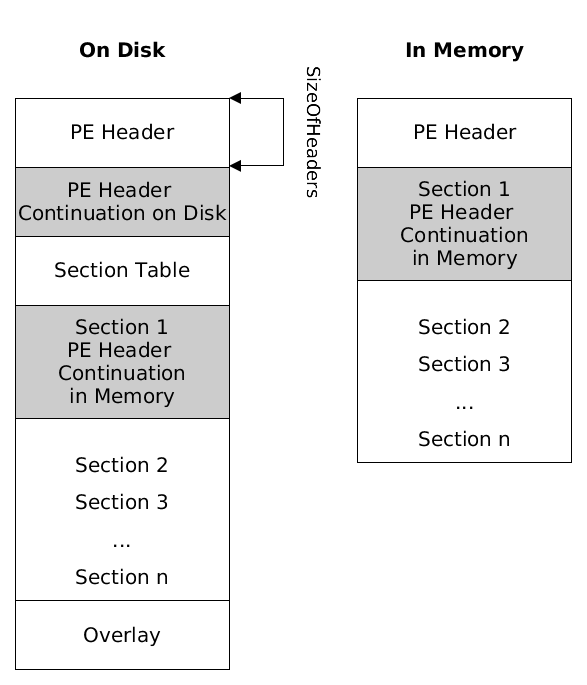
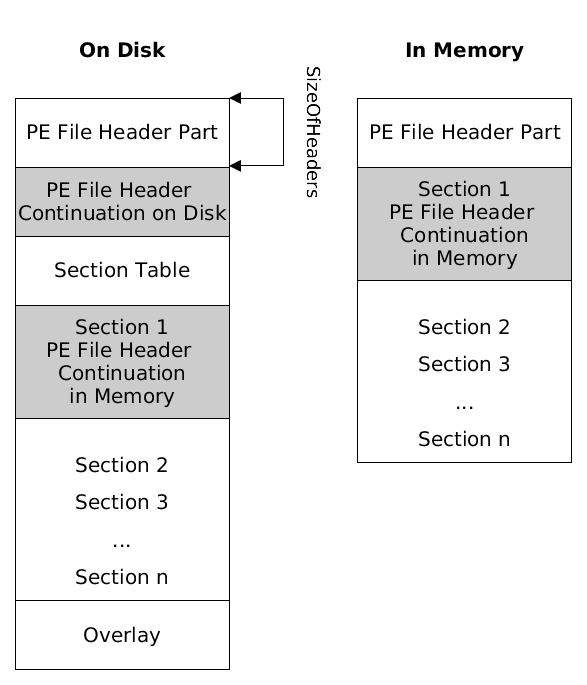
applied part of the suggestions by prof

diff --git a/arbeit/peformat.tex b/arbeit/peformat.tex
@@ -1,19 +1,28 @@
 \chapter{Portable Executable Format} \label{chap:peformat}
 
-\portex{} extracts information from the \PE{} format to assist in analysing malware. Therefore knowledge about the \PE{} format is neccessary to understand the inner workings of the library \portex{} and why the extracted information is useful for malware analysis. 
+The library \portex{} extracts information from the \PE{} format to assist in analysing malware. Therefore knowledge about the \PE{} format is neccessary to understand the implementation of \portex{} and why the extracted information is useful for malware analysis. 
 
-Microsoft introduced the \PE{} file format in 1993 with the release of Windows NT 3.1. It is the successor of the \NZ{} file format for 16-bit systems. The \PE{} format has been incrementally changed since then, and supports not only 32-bit, but also 64-bit system architectures today. The \PE{} format is described in the \PECOFF{} \cite{pespec}.
+Microsoft introduced the \PE{} file format in 1993 with the release of Windows NT 3.1. It is the successor of the \NZ{} file format for 16-bit systems. The \PE{} format has been incrementally changed since then, and supports not only 32-bit, but also 64-bit system architectures today. The \PE{} format is described in the \PECOFF{} \cite{pespec}. 
 
-The two \PE{} file types are \DLL{} and \EXE{} files. The differentiation between these file types is a semantic one. \DLL{} files are meant to export functions or data other programs can use. Therefore they usually only run within the context of other programs. They can have various file endings, including \emph{.sys}, \emph{.dll}, \emph{ocx}, \emph{.cpl} and \emph{.drv}. (\cf{} \cite{micrdll}) 
-\EXE{} files run in their own process instead of being loaded into an existing process of another program. They usually have the file ending \emph{.exe} and do not export any symbols. Both file types share the same format and hybrids are possible, \eg{}, an \EXE{} that exports symbols.
+This chapter defines frequently used terms in \autoref{sec:peconcepts}, gives an overview about the structure of a \PE{} file according to the \PECOFF{} in \autoref{sec:pestructure} and winds up with \PE{} file malformations in \autoref{sec:malformations}.
+
+\section{General Concepts}\label{sec:peconcepts}
+
+This section explains general concepts and frequent terms that are also used by the \PECOFF{} and necessary to understand the descriptions of the \PE{} format.
+
+\subsection*{PE File Types}
+
+The two \PE{} file types are \DLL{} and \EXE{} files. The differentiation between these file types is solely a semantic one. 
+
+\DLL{} files are meant to export functions or data that other programs can use. Therefore they usually only run within the context of other programs. They can have various file extensions, including \emph{.sys}, \emph{.dll}, \emph{ocx}, \emph{.cpl} and \emph{.drv} (\cf{} \cite{micrdll}). 
+
+\EXE{} files run in their own process instead of being loaded into an existing process of another program. They usually have the file extension \emph{.exe} and do not export any symbols. Both file types share the same format and hybrids are possible, \eg{}, an \EXE{} that exports symbols.
 %The system recognizes the file type by a certain flag in the \PE{} headers. (see page~\pageref{dllflag}) \todo{other file types? FON?}
 
-\section{General Concepts}
-
-This section explains some frequent terms that are also used by the \PECOFF{} and necessary to understand the descriptions of the \PE{} format.
+\subsection*{Special Terms}
 
 \begin{definition}[linker]
-\enquote{Linking is the process of collecting and combining various pieces of code and data into a single file that can be loaded (copied) into memory and executed. [...] On modern systems, linking is performed automatically by programs called \emph{linkers}.} \cite[\p{654}]{bryant11}
+\enquote{\emph{Linking} is the process of collecting and combining various pieces of code and data into a single file that can be loaded (copied) into memory and executed. [...] On modern systems, linking is performed automatically by programs called \emph{linkers}.} \cite[\p{654}]{bryant11}
 \end{definition} 
 
 \begin{definition}[loader]
@@ -21,14 +30,15 @@ A \emph{loader} is a program that loads a file into main memory.
 \end{definition} 
 
 \begin{definition}[image file]
-\emph{Image files} have been processed by a linker and are used as input for the loader of the operating system. (\cf{} \cite[\p{8}]{pespec})
+\emph{Image files} have been processed by a linker and are used as input for the loader of the operating system (\cf{} \cite[\p{8}]{pespec}).
 \end{definition} 
 
 \EXE{} and \DLL{} files, are considered as \emph{image files} by the \PECOFF{} (\cf{} \cite[\p{8}]{pespec}).
-In contrast to image files are \emph{object files} (Common Object File Format or {COFF}), which are used as input for a linker (see \cite[\p{8}]{pespec}). The Common Object File Format is not an issue in the thesis.
+
+The \PECOFF{} specifies \emph{object files} (Common Object File Format or {COFF}) alongside \emph{image files}. \emph{Object files} are used as input for a linker in contrast to \emph{image files} (see \cite[\p{8}]{pespec}). Although \emph{object files} are described in the \PECOFF{}, they are not part of the present thesis.
 
 \begin{definition}[base address]
-The \emph{base address} is the address of the first byte where the image is loaded in memory (see \enquote{ImageBase} \cite[\p{19}]{pespec}).
+The \emph{base address} is the address of the first byte where the image file is loaded in memory (see \enquote{ImageBase} \cite[\p{19}]{pespec}).
 \end{definition} 
 
 \begin{definition}[physical address]
@@ -40,13 +50,13 @@ A physical address is the offset of a certain byte in a file as it is written on
 \end{definition} 
 
 \begin{definition}[VA]
-A \emph{\VA{}} is the same as a \RVA{} with the base address added (see \cite[\p{19}]{pespec}). \useacronym*[es]{VA} are absolute in-memory addresses.
+\useacronym*[es]{VA} are absolute in-memory addresses. A \emph{\VA{}} is the same as a \RVA{} with the base address added (see \cite[\p{19}]{pespec}). 
 \end{definition} 
 
 The base address, which is given within the \PE{} file, is only a preferred loading address. If the image file can not be loaded at the preferred address into process space, another base address is applied. Hence, \useacronym[es]{RVA} are a way to specify addresses in-memory independendly from the base address. 
 
 \begin{definition}[entry point]\label{def:entrypoint} 
-The \emph{entry point} is a \RVA{} to the starting address for \EXE{} files, or to the initialization function for device drivers. (see \cite[\p{18}]{pespec}) 
+The \emph{entry point} is a \RVA{} to the starting address for \EXE{} files, or to the initialization function for device drivers (see \cite[\p{18}]{pespec}).
 \end{definition}
 
 \begin{definition}[section]
@@ -62,45 +72,43 @@ A \enquote{basic unit of code or data within a PE or COFF file} \cite[\p{19}]{pe
 \label{fig:peformat} 
 \end{figure}
 
-\autoref{fig:peformat} illustrates the structure of a \PE{} file. It consists of the PE Header followed by the Section Table and the sections. The overlay is optional data appended to the file. The different parts of the \PE{} are explained hereafter. 
+\autoref{fig:peformat} illustrates the structure of a \PE{} file. It consists of the PE File Header followed by the Section Table and the sections. The overlay is optional data appended to the file. The different parts of the \PE{} are explained hereafter. 
 
-Different resources use the term \emph{PE Header} with variable meanings, so the following definition is used in this thesis. \todo{examples}
-\begin{definition}[PE Header]
-The \emph{PE Header} \enquote{consists of a MS-DOS stub, the PE signature, the COFF file header, and an optional header.} \cite[\p{11}]{pespec}
+Different resources use the term \emph{PE File Header} with variable meanings, so the following definition is used in the present thesis. \todo{examples}
+\begin{definition}[PE File Header]
+The \emph{PE File Header} \enquote{consists of a MS-DOS stub, the PE signature, the COFF file header, and an optional header.} \cite[\p{11}]{pespec}
 \end{definition} 
 
 A \PE{} file starts with the MS-DOS Stub. This is an application, which is able to run in MS-DOS. The standard MS-DOS Stub prints the message \enquote{This program cannot be run in DOS mode}. 
 
-The operating system determines the file format by looking for specific signatures. The file format signature is usually at the very beginning of the file. The \PE{} signature is placed after the MSDOS-Stub, because the MS-DOS Stub has a file format signature (the string \enquote{MZ}) itself. The offset to the \PE{} signature is defined in the MS-DOS Stub, thus enables Windows to properly execute the \PE{} file.
-
-\autoref{tbl:peheader} shows the contents of the PE Header and the Section Table.
+The operating system determines the file format by looking for specific signatures. The file format signature is usually at the very beginning of the file. The \PE{} signature (\enquote{PE\textbackslash{}0\textbackslash{}0}) is placed after the MSDOS-Stub, because the MS-DOS Stub has a file format signature (\enquote{MZ}) itself. The offset to the \PE{} signature is defined in the MS-DOS Stub, thus enables Windows to properly execute the \PE{} file.
 
 \renewcommand{\arraystretch}{1.5}
 \begin{table}[h]
 	\begin{center}
-		\begin{tabular}{p{.30\textwidth} p{.63\textwidth}}
+		\begin{tabular}{p{.23\textwidth} p{.48\textwidth} p{.18\textwidth}}
 			\toprule
-			Header name			& Contents\\
+			Header name			& Contents & Size in Bytes PE32/PE32+ \\
 			\midrule
-			COFF File Header	&  \ia{}, type of target machine, number of sections, time date stamp (when the file was created), size of Optional Header, file characteristics\\
+			COFF File Header	&  \ia{}, type of target machine, number of sections, time date stamp (when the file was created), size of Optional Header, file characteristics & 20/20\\
 
-		  Optional Header			& Standard Fields, Windows Specific Fields, Data Directory Table\\
+		  Optional Header			& Standard Fields, Windows Specific Fields, Data Directory Table & variable\\
       \midrule
-      Standard Fields &  \ia{}, magic number, size of code, linker versions, entry point\\
-			Windows Specific Fields	& \ia{}, operating system the file can run on, file alignment, section alignment, \DLL{} characteristics, number of data directories\\
-			Data Directory Table	& each entry consists of address and size for a table or string that the system uses, \eg{}, import table, export table, resource table\\
+      Standard Fields &  \ia{}, magic number, size of code, linker versions, entry point & 28/24\\
+			Windows Specific Fields	& \ia{}, operating system the file can run on, file alignment, section alignment, \DLL{} characteristics, number of data directories & 68/88 \\
+			Data Directory Table	& each entry consists of address and size for a table or string that the system uses, \eg{}, import table, export table, resource table & variable\\
 			\midrule
-      Section Table &  each entry is a section header for the section that make up the rest of the \PE{} file; a section header describes, \ia{}, characteristics, size, name and location of the section\\
+      Section Table &  each entry is a section header; a section header describes, \ia{}, characteristics, size, name and location of a section & variable\\
 			\bottomrule
 		\end{tabular}
 	\end{center}
-	\caption[PE Header contents]{PE Header and Section Table contents}
+	\caption[PE File Header contents]{PE File Header and Section Table contents}
 	\label{tbl:peheader}
 \end{table}
 
 %The COFF File Header contains information about the type of the target machine, the number of sections, a time date stamp that indicates when the file was created, the size of the Optional Header and flags that indicate file characteristics including a flag that indicates whether the file is a \DLL{}\label{dllflag}.
 
-%The Optional Header follows right after the COFF File Header at a certain offset from the beginning of the PE Header. Despite its name the Optional Header is mandatory for image files. Only object files do not need it. The Optional Header has three parts: Standard Fields, Windows Specific Fields and a Data Directory Table.
+%The Optional Header follows right after the COFF File Header at a certain offset from the beginning of the PE File Header. Despite its name the Optional Header is mandatory for image files. Only object files do not need it. The Optional Header has three parts: Standard Fields, Windows Specific Fields and a Data Directory Table.
 
 %The Standard Fields of the Optional Header contain information necessary for loading and running the file. They determine for example, whether the image file allows a 64-bit address space (\PEplus{}) or is limited to a 32-bit address space (\PEsmall{}). They also declare \ia{} the size of initialized and uninitialized data, the size of the code, the linker versions and the entry point (see \autoref{def:entrypoint} at page~\pageref{def:entrypoint}) of the image file.
 
@@ -110,14 +118,19 @@ The operating system determines the file format by looking for specific signatur
 
 %The Section Table is placed right after the Optional Header. It consists of the section headers for the sections that make up the rest of the \PE{} file. A section header describes \ia{} characteristics, size, name and location of a section.
 
-While the PE Header and Section Table are located at a fixed file offset, the rest of the \PE{} contains data defined by pointers in the PE Header or the Section Table. The sections contain arbitrary data, only some sections have a special meaning and are explained in \emph{\nameref{sec:specialsections}} below. An \EXE{} file has at least one section containing executable code.
+\autoref{tbl:peheader} shows the contents of the PE File Header and the Section Table. The \fieldname{MagicNumber} field of the Optional Header determines  whether the image file allows a 64-bit address space (\PEplus{}) or is limited to a 32-bit address space (\PEsmall{}). Some field sizes vary depending on the \fieldname{MagicNumber} and one field has been removed in \PEplus{} files (\fieldname{BaseOfData}, see \cite[18]{pespec}).
 
-Data that was appended to the file, but is not part of the \PE{} format is called \emph{overlay}. Overlay is not mapped into memory. The overlay is used by some applications as a way to store arbitrary data without having to deal with the \PE{} format. 
+All substructures of the PE File Header are consecutively arranged, thus located at a fixed offset from the beginning of the \PE{} signature. The offset of the Section Table depends on the \fieldname{SizeOfOptionalHeaders} field, which is located in the COFF File Header. The remainder of the \PE{} file contains data at addresses, which are defined in the PE File Header or the Section Table. 
+
+The sections of the \PE{} file may contain any data, only some sections have a special meaning and are explained in \emph{\nameref{sec:specialsections}} below. %An \EXE{} file has at least one section containing executable code.
+
+Data that was appended to the file, but is not part of the \PE{} format is called \emph{overlay}. Overlay is not mapped into memory. The overlay is used by some applications as a way to store data without having to deal with the \PE{} format or to prevent the operating system from loading the data to memory. 
 
 \section{Special Sections} \label{sec:specialsections}
 
-Sections may contain arbitrary information, which is only relevant to the application using them; but some sections have a special meaning. Their format is described in the \PECOFF{} \cite[\p{74-103}]{pespec}. These sections are recognized by entries in the Data Directory Table of the Optional Header or certain flags in the Section Table. They have typical section names which are also used in the \PECOFF{} to refer to the sections. These names are not mandatory, but a convention. That is why they can not be relied on while trying to find certain sections in a \PE{}. Not only malware writers misuse the section names to obscure their purpose, but also legimate compilers and packers violate the convention (\eg{} the packer UPX \footnote{\url{http://upx.sourceforge.net/}}).
-Some of these special sections are described in the following. \todo{sections that are recognized by portex}
+Sections may contain data that is only relevant for certain applications or not relevant at all; but some sections have a special meaning. Their format is described in the \PECOFF{} \cite[\p{74-103}]{pespec}. 
+
+\PE{} parsers and the Windows loader determine special sections by entries in the Data Directory Table of the Optional Header or certain flags in the Section Table. Special sections have typical section names which are also used in the \PECOFF{} to refer to the sections. These names are not mandatory, but a convention. That is why they are not reliable for finding certain sections in a \PE{}. Not only malware writers misuse the section names to obscure their purpose, but also legitimate compilers and packers violate the convention (\eg{} the packer UPX \footnote{\url{http://upx.sourceforge.net/}}). A subset of these special sections is described in the following.\todo{sections that are recognized by portex}
 
 \subsection*{Export Section} \label{subsec:idata}
 
@@ -147,7 +160,7 @@ The Import Section contains the Import Directory Table, several Import Lookup Ta
 
 Every Import Directory Table entry points to an Import Lookup Table. Each Import Lookup Table describes the imported symbols of a single \DLL{}.
 
-The Hint-Name table entries have a hint and an ASCII name of the import. Each hint is an index to the Export Name Pointer Table (see \autoref{subsec:idata}) of the \DLL{} the image is importing from. Hints speed up the lookup of imports.
+The Hint-Name table entries have a hint and an ASCII name of the import. Each hint is an index to the Export Name Pointer Table (see \autoref{subsec:idata}) of the \DLL{} the current file is importing from. Hints speed up the lookup of imports.
 
 Null entries mark the end of the Import Directory Table and the Import Lookup Table.
 
@@ -165,25 +178,19 @@ Resources of a \PE{} can be \ia{} icons, text, windows, copyright information. T
 
 \subsection*{Debug Section and Debug Directory}
 
-Whereas most sections can be at an arbitrary location in the file, the \emph{Debug Section} (aka \emph{.debug Section}) must be placed at the very end of the image file. The reason is that the loader does not map this section into memory. Image files contain per default of the linker only a Debug Directory (as pointed to by the Data Directory Table), but not a Debug Section (see \cite[\p{78}]{pespec}). Thus the Debug Directory is either located in the Debug Section if it exists, in any other section of the \PE{} or not in any section at all.
+Whereas most sections can be at an arbitrary location in the file, the \emph{Debug Section} (aka \emph{.debug Section})--if it exists--must be placed at the very end of the image file. The reason is that the loader does not map this section into memory. Image files contain per default of the linker only a Debug Directory (as pointed to by the Data Directory Table), but not a Debug Section (see \cite[\p{78}]{pespec}). Thus the Debug Directory is either located in the Debug Section if it exists, in any other section of the \PE{} or not in any section at all.
 
 Every Debug Directory entry defines \ia{} size, location and the type (format) of a debug information block. An example is in \autoref{lst:debugsample}
 
 \lstinputlisting[caption={Example for a Debug Section entry, output by \portex{}},captionpos=t,label=lst:debugsample]{listings/debug_sample}
 
-\section{Loading Process}
+%\begin{sidewaysfigure}
+%\includegraphics[height=.39\textheight,keepaspectratio]{graphics/pe101}
+%\caption{ Loading Process of a PE by \protect{\cite{peloading}}. Note that the term PE File Header is used synonymously to COFF File Header in this graphic}
+%\label{fig:loading} 
+%\end{sidewaysfigure}
 
-test \cite{peloading} why?
-
-\begin{sidewaysfigure}
-\includegraphics[height=.39\textheight,keepaspectratio]{graphics/pe101}
-\caption{ Loading Process of a PE by \protect{\cite{peloading}}. Note that the term PE Header is used synonymously to COFF File Header in this graphic}
-\label{fig:loading} 
-\end{sidewaysfigure}
-
-\todo{add reference to figure}
-
-\section{PE Malformations}
+\section{PE Malformations} \label{sec:malformations}
 
 \begin{definition}[Malformation]
 A \emph{malformation} is data or layout of a \PE{} file that violates the \PECOFF{}.
@@ -197,7 +204,7 @@ Accidental malformations occur if the malware writer does not know the \PECOFF{}
 Sheehan et\thinspace{}al states that 68~\% of all image files have malformations. \cite[slide 7]{sheehan07}
 Because \portex{} specializes in \PE{} malware, one goal of \portex{} is to parse malformated \useacronym[s]{PE} correctly and to recognize malformations.
 
-%While other sources only use the term malformation for a file that still runs normally, this is not a premise for this thesis. If modifications to a \PE{} done by malware lead to a non-working host file, the file might still be of interest for malware analysis. \portex{} shall still be able to get as much information of the file as possible despite the damage done to the file. \todo{ausdruck? remove paragraph?}
+%While other sources only use the term malformation for a file that still runs normally, this is not a premise for the present thesis. If modifications to a \PE{} done by malware lead to a non-working host file, the file might still be of interest for malware analysis. \portex{} shall still be able to get as much information of the file as possible despite the damage done to the file. \todo{ausdruck? remove paragraph?}
 
 The following malformation examples are modifications done on purpose to deceive malware analysis tools.
 
@@ -210,23 +217,23 @@ The malformation examples described hereafter are in ascending order of their co
 
 According to the \PECOFF{} the number of sections is limited to 96 \cite[\p{12}]{pespec}. While Windows XP refuses to execute a \PE{} with more sections, Windows Vista, 7 and 8 run it nevertheless. The number of sections is defined in the COFF File Header in a 16-bit value. If the maximum number of 0xffff (65535) sections is set, tools might fail to allocate enough memory to load the file and crash subsequently. An example is IDA v5.3.
 
-\subsubsection*{PE Header in Overlay}
+\subsubsection*{PE File Header in Overlay}
 
-The PE Header usually follows after the MS-DOS Stub \todo{pespecreferences, usual vs change}
+The PE File Header usually follows after the MS-DOS Stub \todo{pespecreferences, usual vs change}
 
-As explained in \autoref{sec:pestructure} the address to the beginning of the PE signature and the following PE Header is located in file offset 0x3c within the MS-DOS Stub. This address is a 32-bit value and can be changed to point to the overlay of the file as illustrated in \autoref{fig:overlayheader}. (\cf{} \cite[slide 13]{vuksan11})
+As explained in \autoref{sec:pestructure} the address to the beginning of the PE signature and the following PE File Header is located in file offset 0x3c within the MS-DOS Stub. This address is a 32-bit value and can be changed to point to the overlay of the file as illustrated in \autoref{fig:overlayheader}. (\cf{} \cite[slide 13]{vuksan11})
 
 \begin{figure}
 \includegraphics[width=.98\textwidth, height=.60\textheight,keepaspectratio]{graphics/overlayheader}
-\caption{PE Header in Overlay \protect{(\cf{} \cite[slide 13]{vuksan11})}}
+\caption{PE File Header in Overlay \protect{(\cf{} \cite[slide 13]{vuksan11})}}
 \label{fig:overlayheader} 
 \end{figure}
 
-The overlay is never mapped into memory, so the PE Header will not be present in memory as well. The Windows loader reads it from disk and the file will be executed nevertheless. Tools that read the PE Header from memory can break because of that malformation.
+The overlay is never mapped into memory, so the PE File Header will not be present in memory as well. The Windows loader reads it from disk and the file will be executed nevertheless. Tools that read the PE File Header from memory can break because of that malformation.
 
 \subsubsection*{Section Table in Overlay}
 
-The idea from the previous malformation is extended by moving only the Section Table to the overlay. The Optional Header has a variable size. The offset from the beginning of the Optional Header and its size determine the beginning of the Section Table. The size is defined in the field \texttt{SizeOfOptionalHeaders} the COFF File Header. It is a 16-bit value, so the maximum value for the size is 65535. If the end of the file is smaller than the offset of the Optional Header plus its size, the Section Table can be moved to the very end of the file. \autoref{fig:overlaysectable} illustrates the malformation.
+The idea from the previous malformation is extended by moving only the Section Table to the overlay. The Optional Header has a variable size. The offset from the beginning of the Optional Header and its size determine the beginning of the Section Table. The size is defined in the field \fieldname{SizeOfOptionalHeaders} the COFF File Header. It is a 16-bit value, so the maximum value for the size is 65535. If the end of the file is smaller than the offset of the Optional Header plus its size, the Section Table can be moved to the very end of the file. \autoref{fig:overlaysectable} illustrates the malformation.
 
 As a result of this modification the Section Table will not be mapped to memory. A tool that parses the memory content will not be able to find the Section Table. Pericin demonstrates this in his talk at the BlackHat Conference with the debugger OllyDbg. \cite[min.\thinspace{}14:45]{vuksan11} 
 
@@ -236,28 +243,28 @@ As a result of this modification the Section Table will not be mapped to memory.
 \label{fig:overlaysectable} 
 \end{figure}
 
-\subsubsection*{Dual PE Header} \label{subsubsec:dualheader}
+\subsubsection*{Dual PE File Header} \label{subsubsec:dualheader}
 
-The \texttt{SizeOfHeaders} field in the Optional Header defines the \enquote{combined size of an MS-DOS Stub, PE header, and section headers} \cite[\p{20}]{pespec}. But it also determines the \VA{} of the first section implicitly. \cite[slide 15]{vuksan11} 
+The \fieldname{SizeOfHeaders} field in the Optional Header defines the \enquote{combined size of an MS-DOS Stub, PE File Header, and section headers} \cite[\p{20}]{pespec}. But it also determines the \VA{} of the first section implicitly. \cite[slide 15]{vuksan11} 
 
-If the \texttt{SizeOfHeaders} field is modified to a smaller value, the modification will result in loading only part of the PE Header to memory. The Windows loader still processes most of the PE Header on disk regardless of the \texttt{SizeOfHeaders} field. So setting the \VA{} of the first section in the Section Table to the same value of the \texttt{SizeOfHeaders} field will make the section part of the PE Header in memory whereas the PE Header read on disk is another one. \autoref{fig:dualpeheader} illustrates the malformation.
+If the \fieldname{SizeOfHeaders} field is modified to a smaller value, the modification will result in loading only part of the PE File Header to memory. The Windows loader still processes most of the PE File Header on disk regardless of the \fieldname{SizeOfHeaders} field. So setting the \VA{} of the first section in the Section Table to the same value of the \fieldname{SizeOfHeaders} field will make the section part of the PE File Header in memory whereas the PE File Header read on disk is another one. \autoref{fig:dualpeheader} illustrates the malformation.
 
-The Data Directory Table is parsed from memory by the operating system. That means writing a different continuation of the PE Header to the first section will result into \eg{} different imports or exports used by the operating system than the ones parsed on disk by reverse engineering tools.
+The Data Directory Table is parsed from memory by the operating system. That means writing a different continuation of the PE File Header to the first section will result into \eg{} different imports or exports used by the operating system than the ones parsed on disk by reverse engineering tools.
 
 \begin{figure}
 \includegraphics[width=.98\textwidth, height=.60\textheight,keepaspectratio]{graphics/dualpeheader}
-\caption{Dual PE Header}
+\caption{Dual PE File Header}
 \label{fig:dualpeheader} 
 \end{figure}
 
-\subsubsection*{Writeable PE Header} \label{subsubsec:writeableheader}
+\subsubsection*{Writeable PE File Header} \label{subsubsec:writeableheader}
 
-The PE Header usually has only \texttt{execute} and \texttt{read} attributes enabled. There are two possibilities to make it writeable. 
+The PE File Header usually has only \texttt{execute} and \texttt{read} attributes enabled. There are two possibilities to make it writeable. 
 
-The first possibilitiy is setting the \texttt{FileAlignment} and the \texttt{SectionAlignment} to 0x200 (512) or smaller. Both values are part of the Optional Header. 0x200 is the minimum value according to the \PECOFF{} \cite[\p{19}]{pespec}. If the value in the PE Header is smaller, the Windows loader rounds it up to 0x200.
-These changes force the Windows loader to provide full access to the PE Header. (\cf{} \cite[\p{6}]{revlabs11})
+The first possibilitiy is setting the \fieldname{FileAlignment} and the \fieldname{SectionAlignment} to 0x200 (512) or smaller. Both values are part of the Optional Header. 0x200 is the minimum value according to the \PECOFF{} \cite[\p{19}]{pespec}. If the value in the PE File Header is smaller, the Windows loader rounds it up to 0x200.
+These changes force the Windows loader to provide full access to the PE File Header. (\cf{} \cite[\p{6}]{revlabs11})
 
-The second possibility is placing the PE Header in a section as explained in \emph{\nameref{subsubsec:dualheader}} and enabling the \texttt{write} attribute in the section header.
+The second possibility is placing the PE File Header in a section as explained in \emph{\nameref{subsubsec:dualheader}} and enabling the \texttt{write} attribute in the section header.
 
 This malformation is necessary for some of the complex malformations following after.
 
@@ -267,8 +274,8 @@ A malformation is complex if it concerns multiple fields or data tables in the \
 
 \subsubsection*{No Sections}
 
-Despite having no sections a \PE{} is able to execute code by placing instructions within the PE Header. This is demonstrated by Sotirov in his \emph{Tiny PE} project. \cite{tinype}
+Despite having no sections a \PE{} is able to execute code by placing instructions within the PE File Header. This is demonstrated by Sotirov in his \emph{Tiny PE} project. \cite{tinype}
 
-To make this work, the file has to be modified so that the physical offsets are the same as their virtual counterparts. The PE Header is made writable as explained in \emph{\nameref{subsubsec:writeableheader}} and the number of sections is set to 0. The \texttt{SizeOfHeaders} field in the Optional Header needs to be large to enough to make Windows load the whole file into memory. That way the \PE{} can execute code inside its PE Header.
+To make this work, the file has to be modified so that the physical offsets are the same as their virtual counterparts. The PE File Header is made writable as explained in \emph{\nameref{subsubsec:writeableheader}} and the number of sections is set to 0. The \fieldname{SizeOfHeaders} field in the Optional Header needs to be large to enough to make Windows load the whole file into memory. That way the \PE{} can execute code inside its PE File Header.
 
 A \PE{} without sections may be partly unreadable by reverse engineering tools as a result of incorrect address conversions; or might be able to break tools that expect the file to have at least one section. An example is Hiew v8.03 which does not recognize a sectionless \PE{} as \PE{} file.

diff --git a/src/test/java/com/github/katjahahn/PortexStats.java b/src/test/java/com/github/katjahahn/PortexStats.java
@@ -2,6 +2,11 @@ package com.github.katjahahn;
 
 import java.io.File;
 import java.io.IOException;
+import java.util.Map;
+
+import com.github.katjahahn.optheader.DataDirEntry;
+import com.github.katjahahn.optheader.DataDirectoryKey;
+import com.github.katjahahn.sections.SectionLoader;
 
 public class PortexStats {
 
@@ -12,9 +17,49 @@ public class PortexStats {
 	public static void main(String[] args) throws IOException {
 		ableToLoad();
 	}
+	
+	public static int ableToLoadSections() {
+		int ableToLoad = 0;
+		int unableToLoad = 0;
+		int filesReadCounter = 0;
+		File folder = new File(PE_FOLDER);
+		File[] files = folder.listFiles();
+		for (File file : files) {
+			try {
+				PEData data = PELoader.loadPE(file);
+				SectionLoader loader = new SectionLoader(data);
+				Map<DataDirectoryKey, DataDirEntry> map = data.getOptionalHeader().getDataDirEntries();
+				if(map.containsKey(DataDirectoryKey.RESOURCE_TABLE)) {
+					loader.loadResourceSection();
+				}
+				if(map.containsKey(DataDirectoryKey.IMPORT_TABLE) ){
+					loader.loadImportSection();
+				}
+				if(map.containsKey(DataDirectoryKey.EXPORT_TABLE) ){
+					loader.loadExportSection();
+				}
+				ableToLoad++;
+			} catch (Exception e) {
+				System.out.println(e.getMessage());
+				unableToLoad++;
+			}
+			filesReadCounter++;
+			if (filesReadCounter % 100 == 0) {
+				System.out.println("Files read: " + filesReadCounter);
+				System.out.println("Able to load: " + ableToLoad);
+				System.out.println("Unable to load: " + unableToLoad);
+				System.out.println();
+			}
+		}
+		System.out.println("Files read: " + filesReadCounter);
+		System.out.println("Able to load: " + ableToLoad);
+		System.out.println("Unable to load: " + unableToLoad);
+		return ableToLoad;
+	}
 
 	public static int ableToLoad() {
 		int ableToLoad = 0;
+		int unableToLoad = 0;
 		int filesReadCounter = 0;
 		File folder = new File(PE_FOLDER);
 		File[] files = folder.listFiles();
@@ -23,17 +68,21 @@ public class PortexStats {
 				PELoader.loadPE(file);
 				ableToLoad++;
 			} catch (Exception e) {
-				System.err.println(e.getMessage());
+				System.out.println(e.getMessage());
+				e.printStackTrace();
+				unableToLoad++;
 			}
 			filesReadCounter++;
 			if (filesReadCounter % 100 == 0) {
 				System.out.println("Files read: " + filesReadCounter);
 				System.out.println("Able to load: " + ableToLoad);
+				System.out.println("Unable to load: " + unableToLoad);
 				System.out.println();
 			}
 		}
-		System.out.println("Able to load " + ableToLoad + "/"
-				+ files.length + " successfully.");
+		System.out.println("Files read: " + filesReadCounter);
+		System.out.println("Able to load: " + ableToLoad);
+		System.out.println("Unable to load: " + unableToLoad);
 		return ableToLoad;
 	}
 
